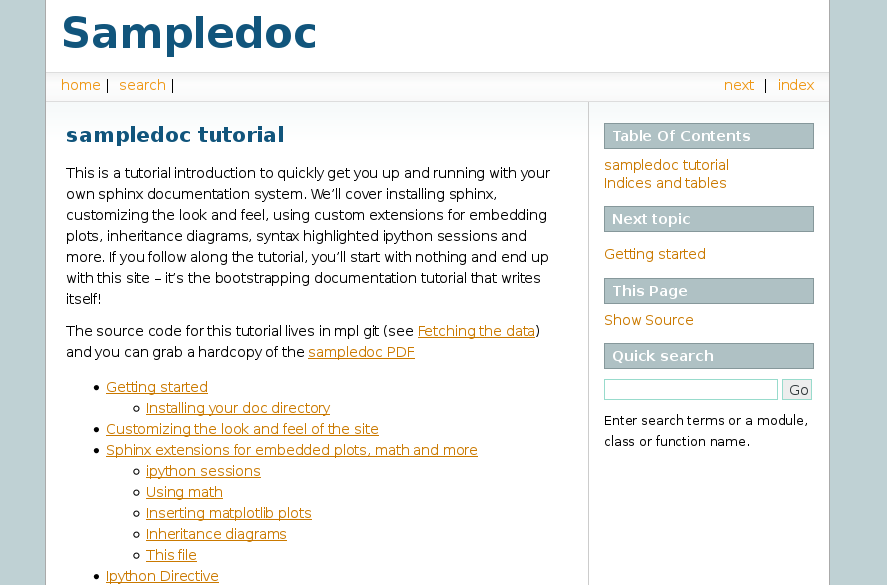
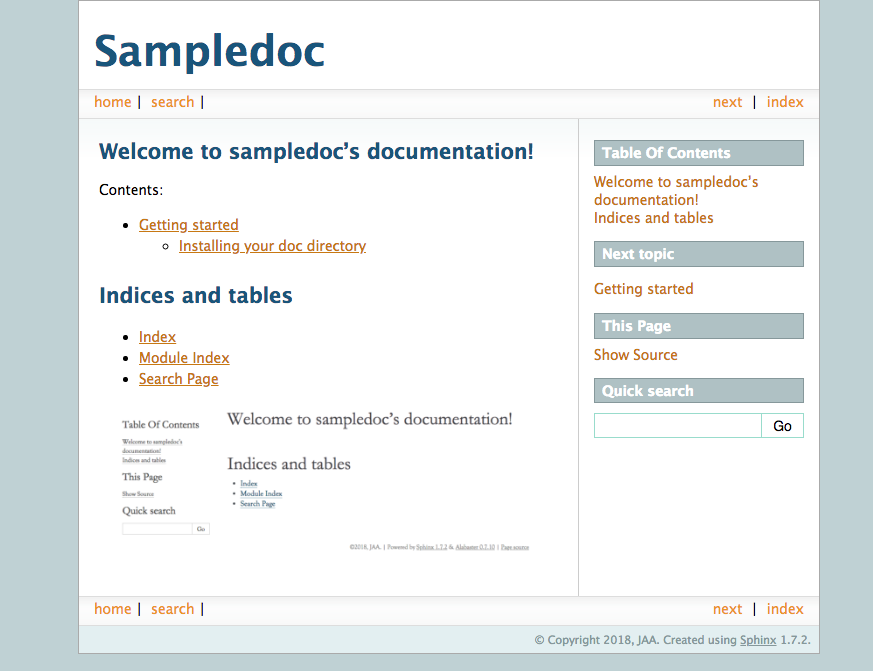
Added line in custom_look to change the html theme to sphinxdoc so it looks like the screenshot. Updated the screenshot to what it will look like for users.

Changed region(s): [[0.0309, 0.0, 0.9588, 1.0], [0.6804, 0.7077, 0.8969, 0.7692]]

diff --git a/getting_started.rst b/getting_started.rst
@@ -49,7 +49,7 @@ Fetching the data
 Now we will start to customize out docs.  Grab a couple of files from
 the `web site <https://github.com/matplotlib/sampledoc>`_
 or git.  You will need :file:`getting_started.rst` and
-:file:`_static/basic_screenshot.png`.  All of the files live in the
+:file:`_static/new_basic_screenshot.png`.  All of the files live in the
 "completed" version of this tutorial, but since this is a tutorial,
 we'll just grab them one at a time, so you can learn what needs to be
 changed where.  Since we have more files to come, I'm going to grab
@@ -69,7 +69,7 @@ need into my :file:`sampledoc` directory::
   Unpacking objects: 100% (87/87), done.
   Checking connectivity... done
   home:~/tmp> cp tutorial/getting_started.rst sampledoc/
-  home:~/tmp> cp tutorial/_static/basic_screenshot.png sampledoc/_static/
+  home:~/tmp> cp tutorial/_static/new_basic_screenshot.png sampledoc/_static/
 
 The last step is to modify :file:`index.rst` to include the
 :file:`getting_started.rst` file (be careful with the indentation, the
@@ -93,10 +93,11 @@ When you reload the page by refreshing your browser pointing to
 "Getting Started" docs, and in there this page with the screenshot.
 `Voila!`
 
-Note we used the image directive to include to the screenshot above
+We can also use the image directive in :file:`index.rst` to include to the screenshot above
 with::
 
-  .. image:: _static/basic_screenshot.png
+  .. image::
+     _static/new_basic_screenshot.png
 
 
 Next we'll customize the look and feel of our site to give it a logo,

diff --git a/custom_look.rst b/custom_look.rst
@@ -53,6 +53,9 @@ moves the vertical navigation panels to the right side of the page::
     {% block sidebar1 %}{{ sidebar() }}{% endblock %}
     {% block sidebar2 %}{% endblock %}
 
+Lastly, we need to modify the html theme in :file:`sampledoc/conf.py`::
+    html_theme = 'sphinxdoc'
+
 Once you rebuild the site with a ``make html`` and reload the page in your browser, you should see a fancier site that looks like this
 
 .. image:: _static/fancy_screenshot.png
